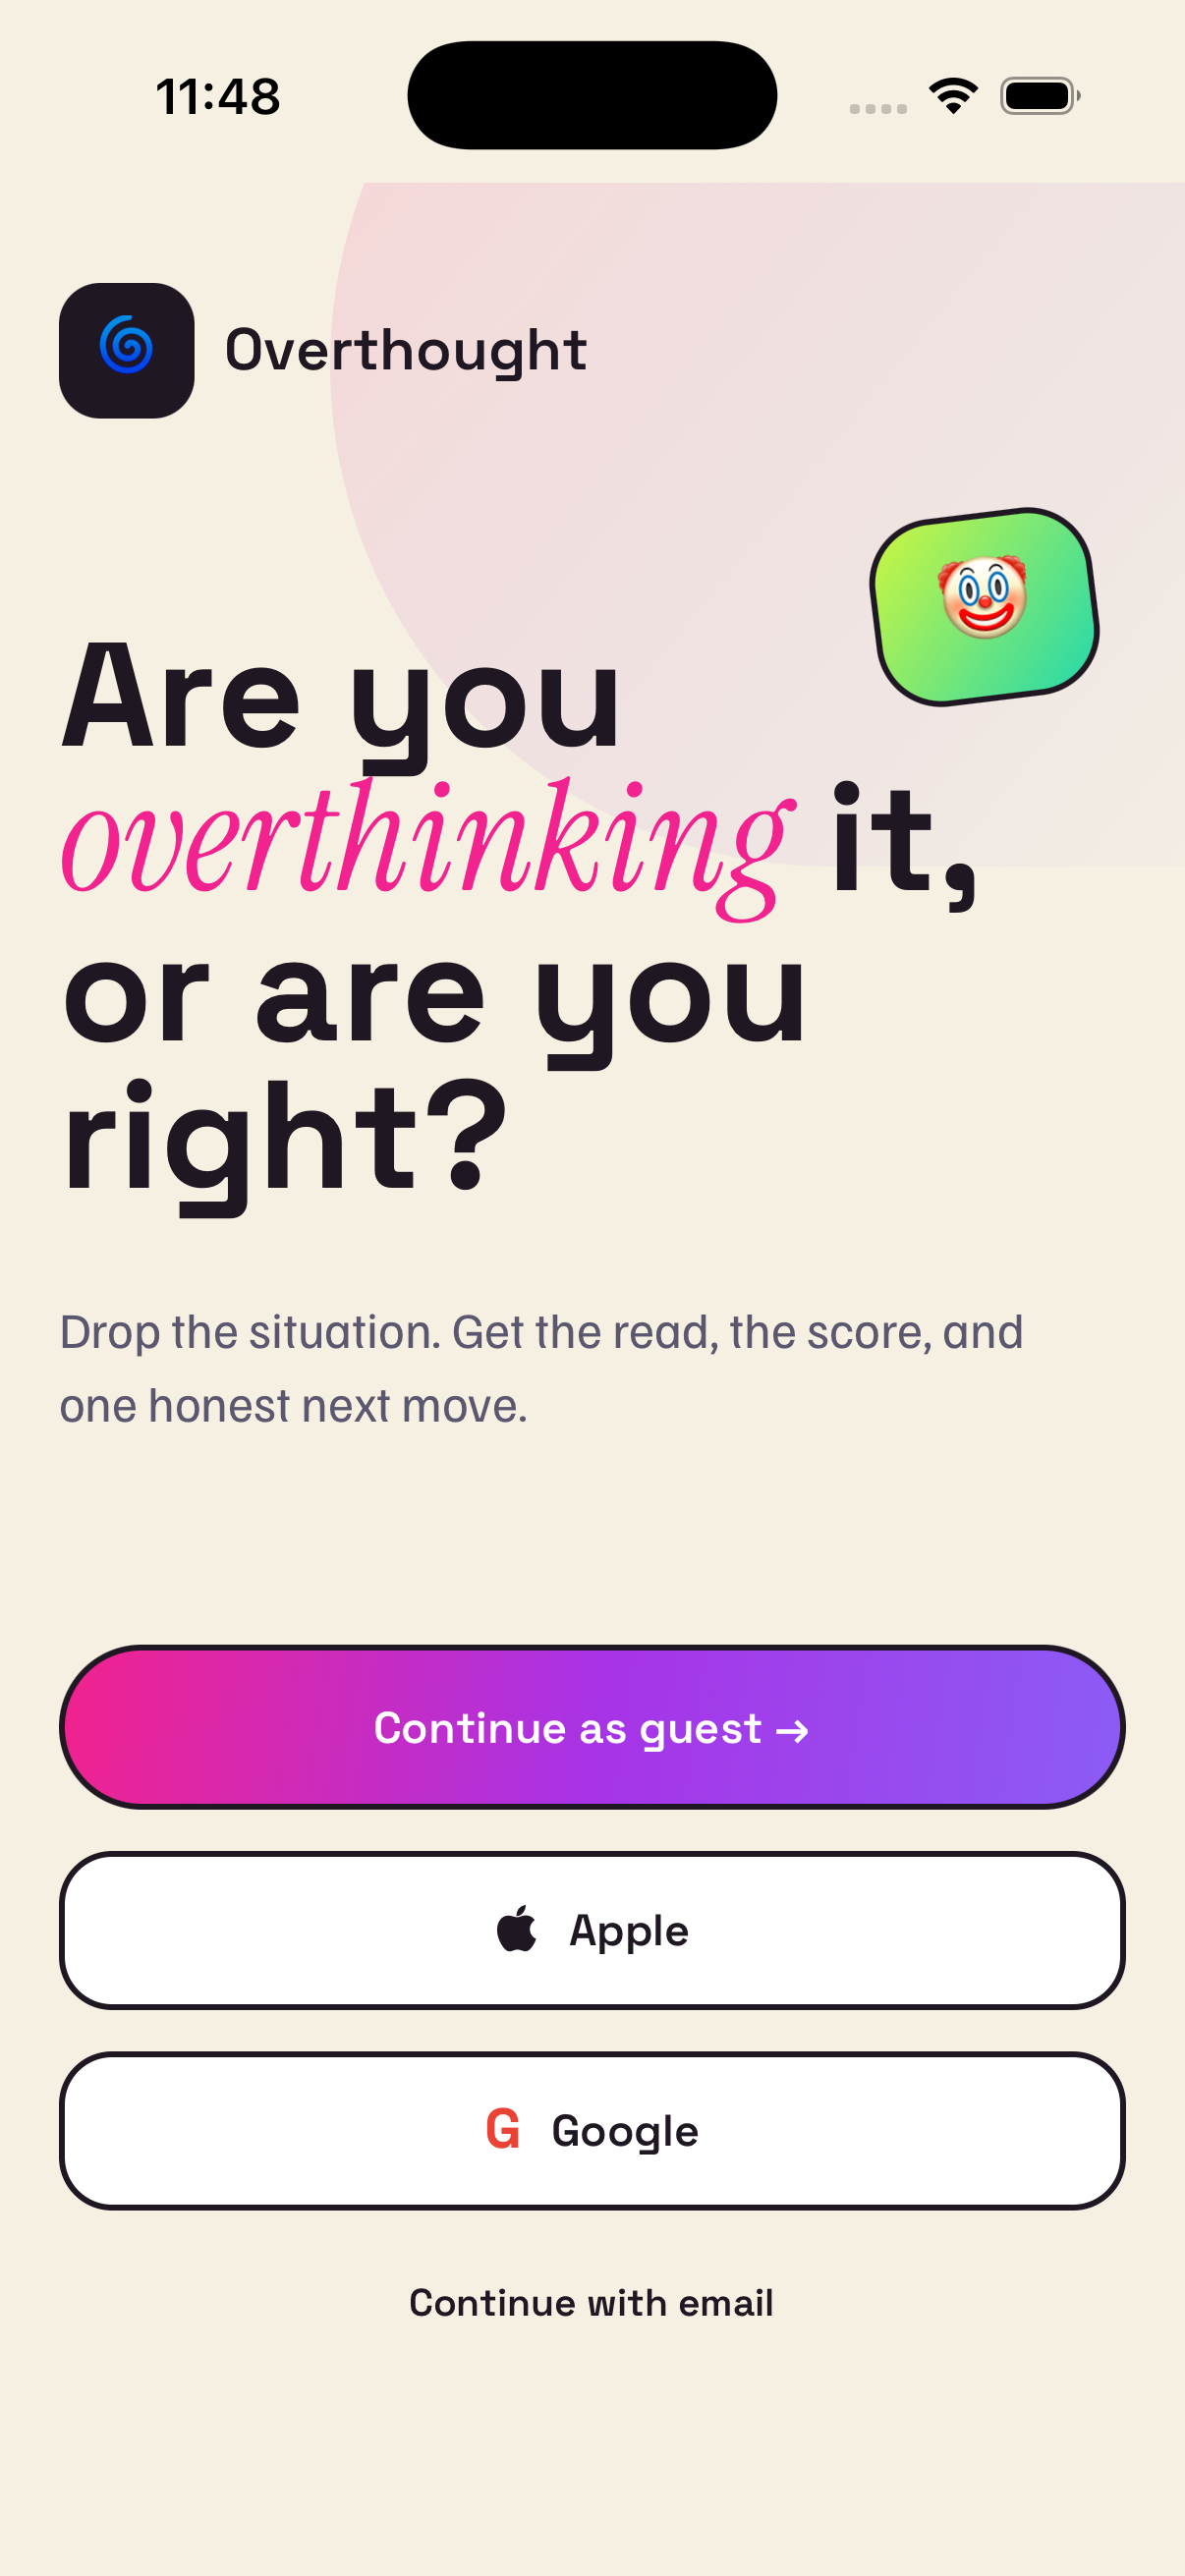
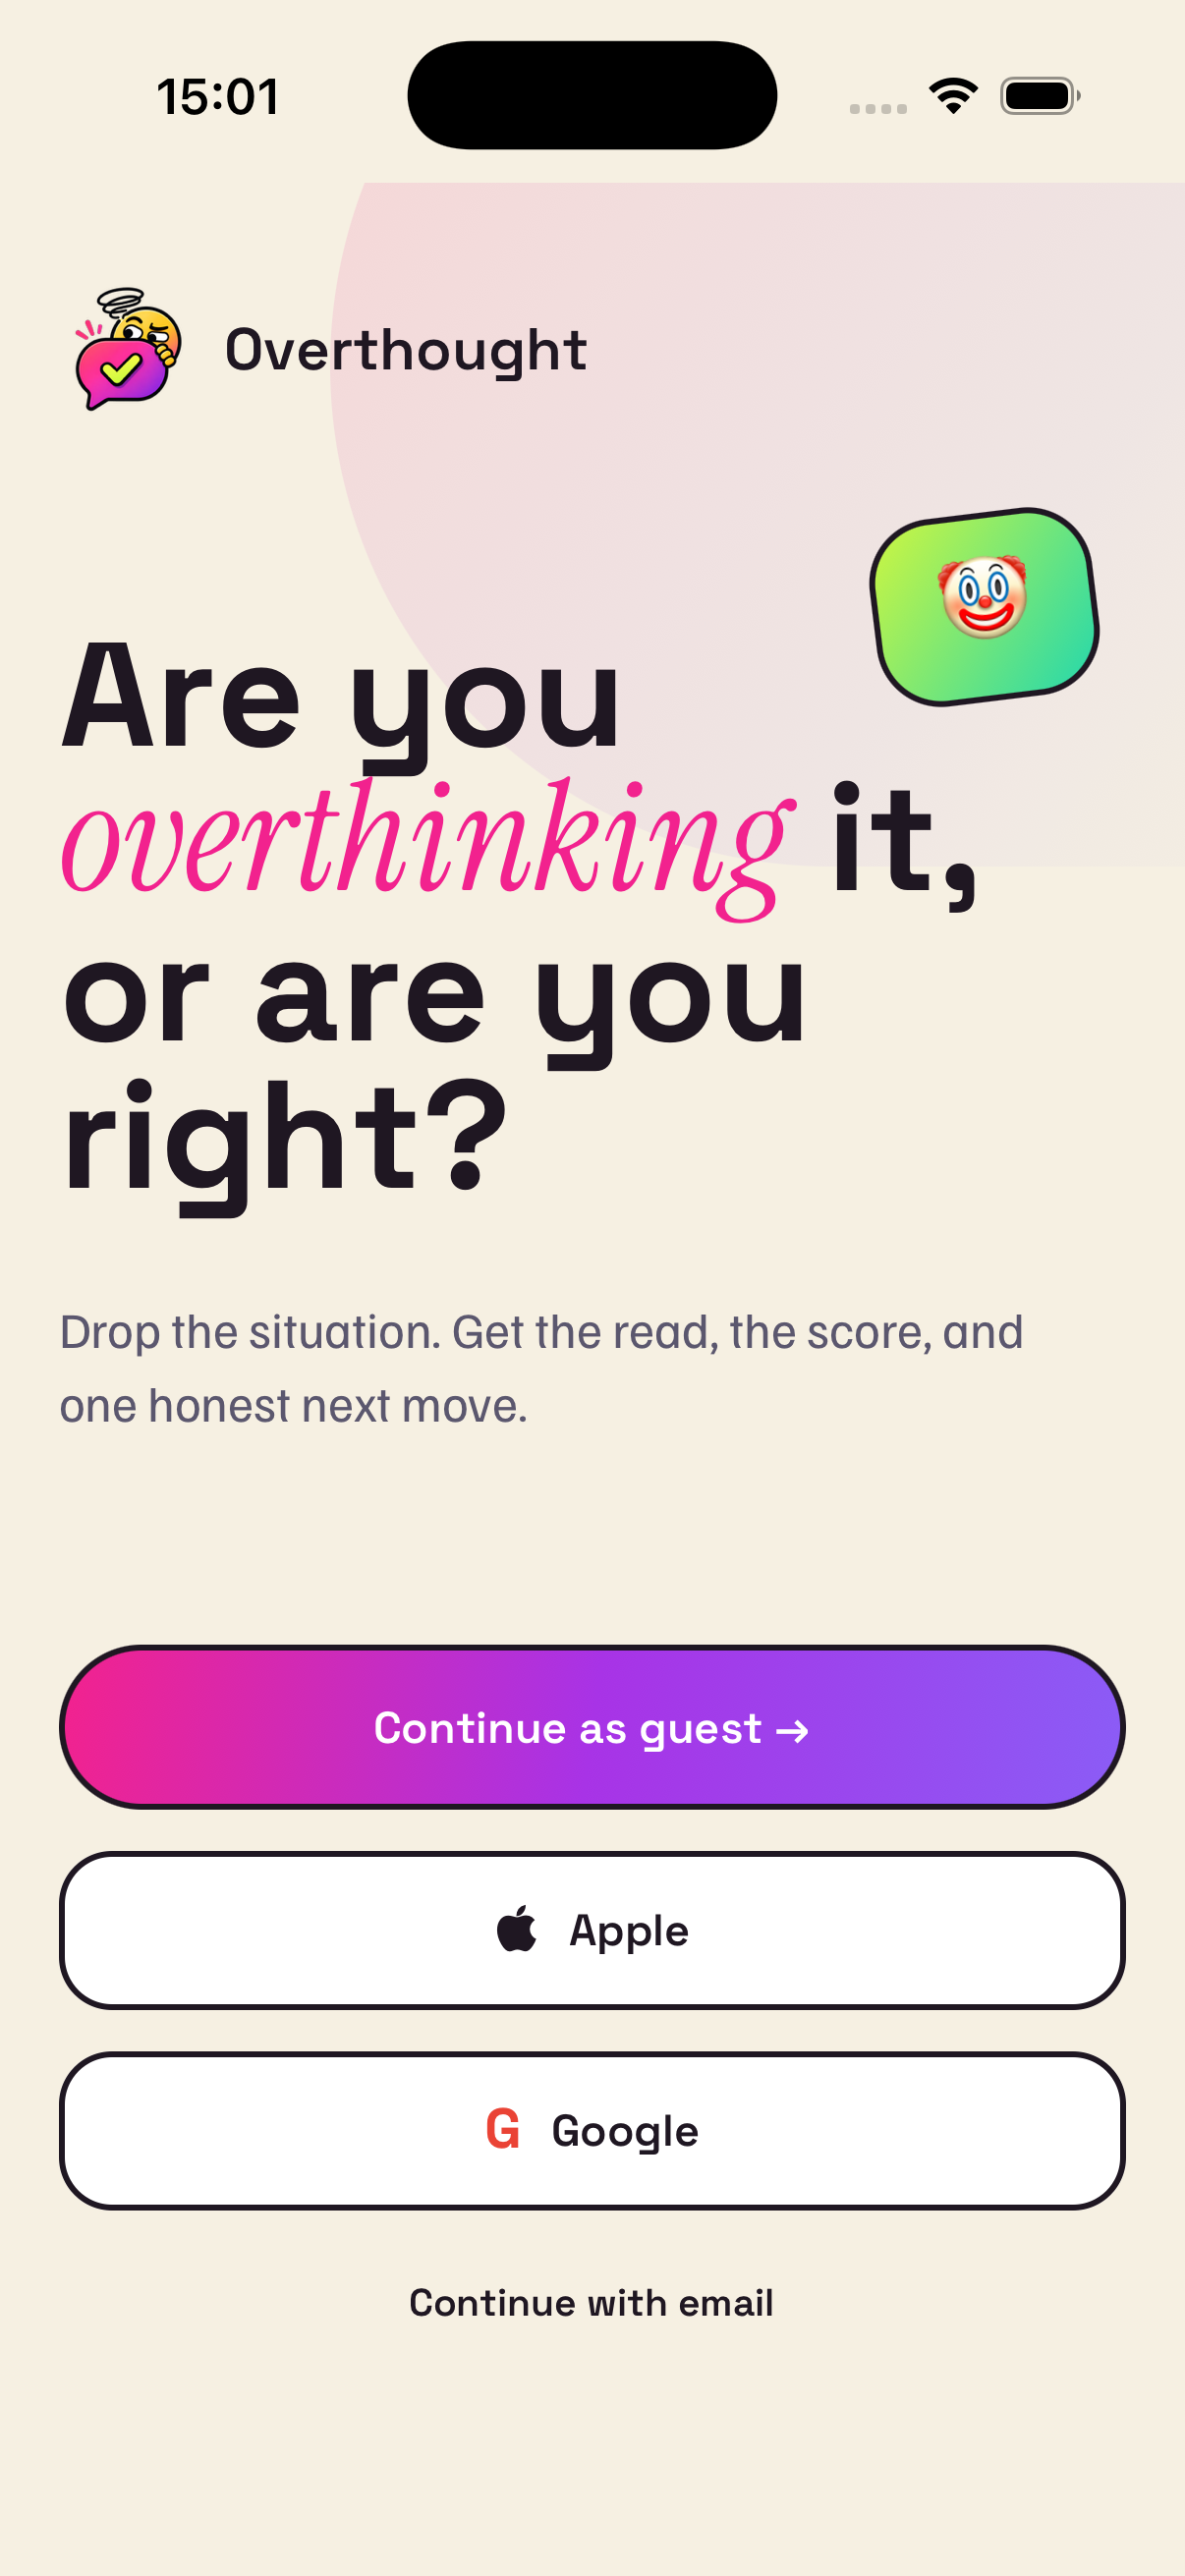
App store legal links fix

Changed region(s): [[0.0307, 0.0927, 0.1841, 0.1854], [0.1534, 0.0309, 0.2454, 0.0618]]

diff --git a/src/lib/env.test.ts b/src/lib/env.test.ts
@@ -1,0 +1,38 @@
+const privacyPolicyUrl = 'https://overthought.app/privacy-policy.html';
+const termsUrl = 'https://overthought.app/terms-of-use.html';
+
+function loadEnv() {
+  jest.resetModules();
+
+  return require('./env') as typeof import('./env');
+}
+
+describe('env legal URLs', () => {
+  const originalPrivacyPolicyUrl = process.env.EXPO_PUBLIC_PRIVACY_POLICY_URL;
+  const originalTermsUrl = process.env.EXPO_PUBLIC_TERMS_URL;
+
+  afterEach(() => {
+    process.env.EXPO_PUBLIC_PRIVACY_POLICY_URL = originalPrivacyPolicyUrl;
+    process.env.EXPO_PUBLIC_TERMS_URL = originalTermsUrl;
+  });
+
+  it('defaults to functional legal URLs', () => {
+    delete process.env.EXPO_PUBLIC_PRIVACY_POLICY_URL;
+    delete process.env.EXPO_PUBLIC_TERMS_URL;
+
+    const { env } = loadEnv();
+
+    expect(env.privacyPolicyUrl).toBe(privacyPolicyUrl);
+    expect(env.termsUrl).toBe(termsUrl);
+  });
+
+  it('maps the rejected trailing-slash URLs to the functional .html URLs', () => {
+    process.env.EXPO_PUBLIC_PRIVACY_POLICY_URL = privacyPolicyUrl.replace('.html', '/');
+    process.env.EXPO_PUBLIC_TERMS_URL = termsUrl.replace('.html', '/');
+
+    const { env } = loadEnv();
+
+    expect(env.privacyPolicyUrl).toBe(privacyPolicyUrl);
+    expect(env.termsUrl).toBe(termsUrl);
+  });
+});

diff --git a/src/lib/env.ts b/src/lib/env.ts
@@ -5,6 +5,21 @@ const appVariant =
 
 export const passwordResetRedirectUrl = 'overthought://reset-password';
 
+export const legalUrls = {
+  privacyPolicy: 'https://overthought.app/privacy-policy.html',
+  termsOfUse: 'https://overthought.app/terms-of-use.html',
+} as const;
+
+function normalizeLegalUrl(value: string | undefined, canonicalUrl: string): string {
+  const trimmedValue = value?.trim();
+
+  if (!trimmedValue) {
+    return canonicalUrl;
+  }
+
+  return trimmedValue === canonicalUrl.replace('.html', '/') ? canonicalUrl : trimmedValue;
+}
+
 export const env = {
   appVariant,
   supabaseUrl: process.env.EXPO_PUBLIC_SUPABASE_URL ?? '',
@@ -19,8 +34,8 @@ export const env = {
   revenueCatIosApiKey: process.env.EXPO_PUBLIC_REVENUECAT_IOS_API_KEY ?? '',
   revenueCatAndroidApiKey: process.env.EXPO_PUBLIC_REVENUECAT_ANDROID_API_KEY ?? '',
   enablePremium: appVariant === 'production' && process.env.EXPO_PUBLIC_ENABLE_PREMIUM === 'true',
-  privacyPolicyUrl: process.env.EXPO_PUBLIC_PRIVACY_POLICY_URL ?? '',
-  termsUrl: process.env.EXPO_PUBLIC_TERMS_URL ?? '',
+  privacyPolicyUrl: normalizeLegalUrl(process.env.EXPO_PUBLIC_PRIVACY_POLICY_URL, legalUrls.privacyPolicy),
+  termsUrl: normalizeLegalUrl(process.env.EXPO_PUBLIC_TERMS_URL, legalUrls.termsOfUse),
 } as const;
 
 export function hasSupabaseEnv(): boolean {